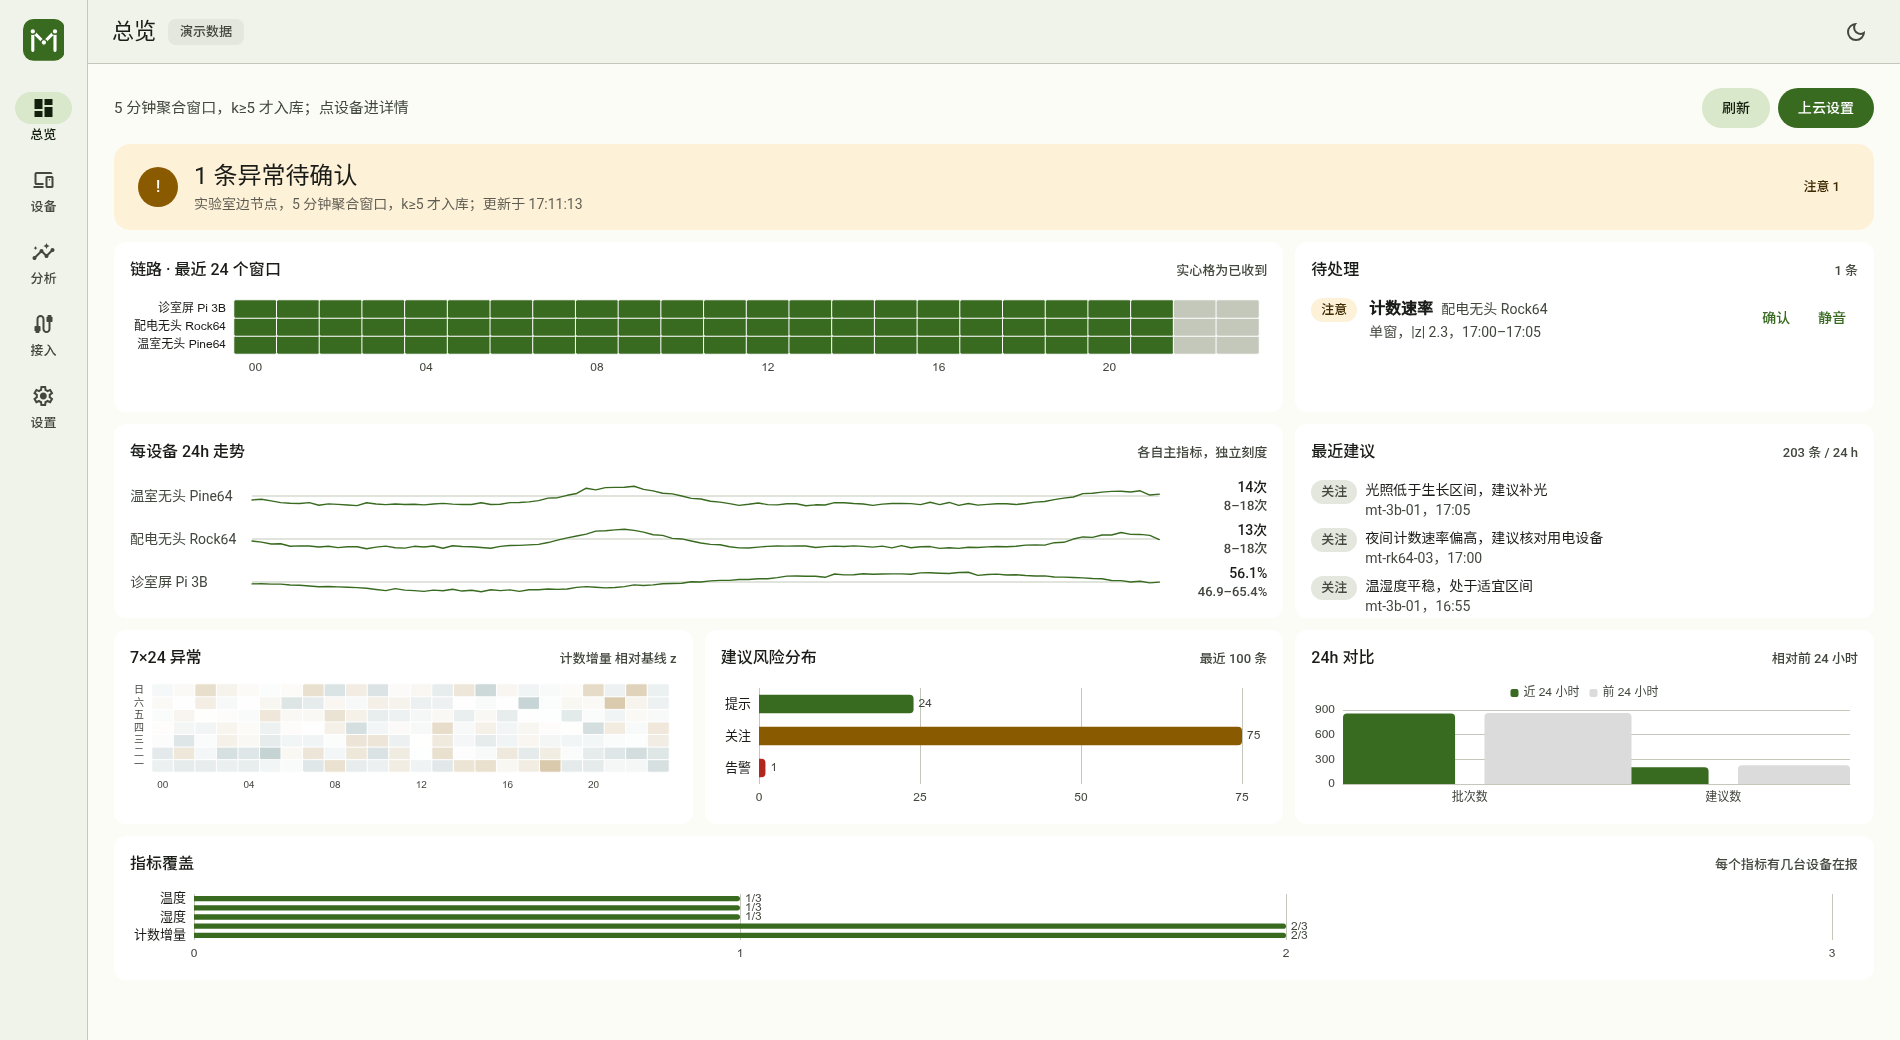
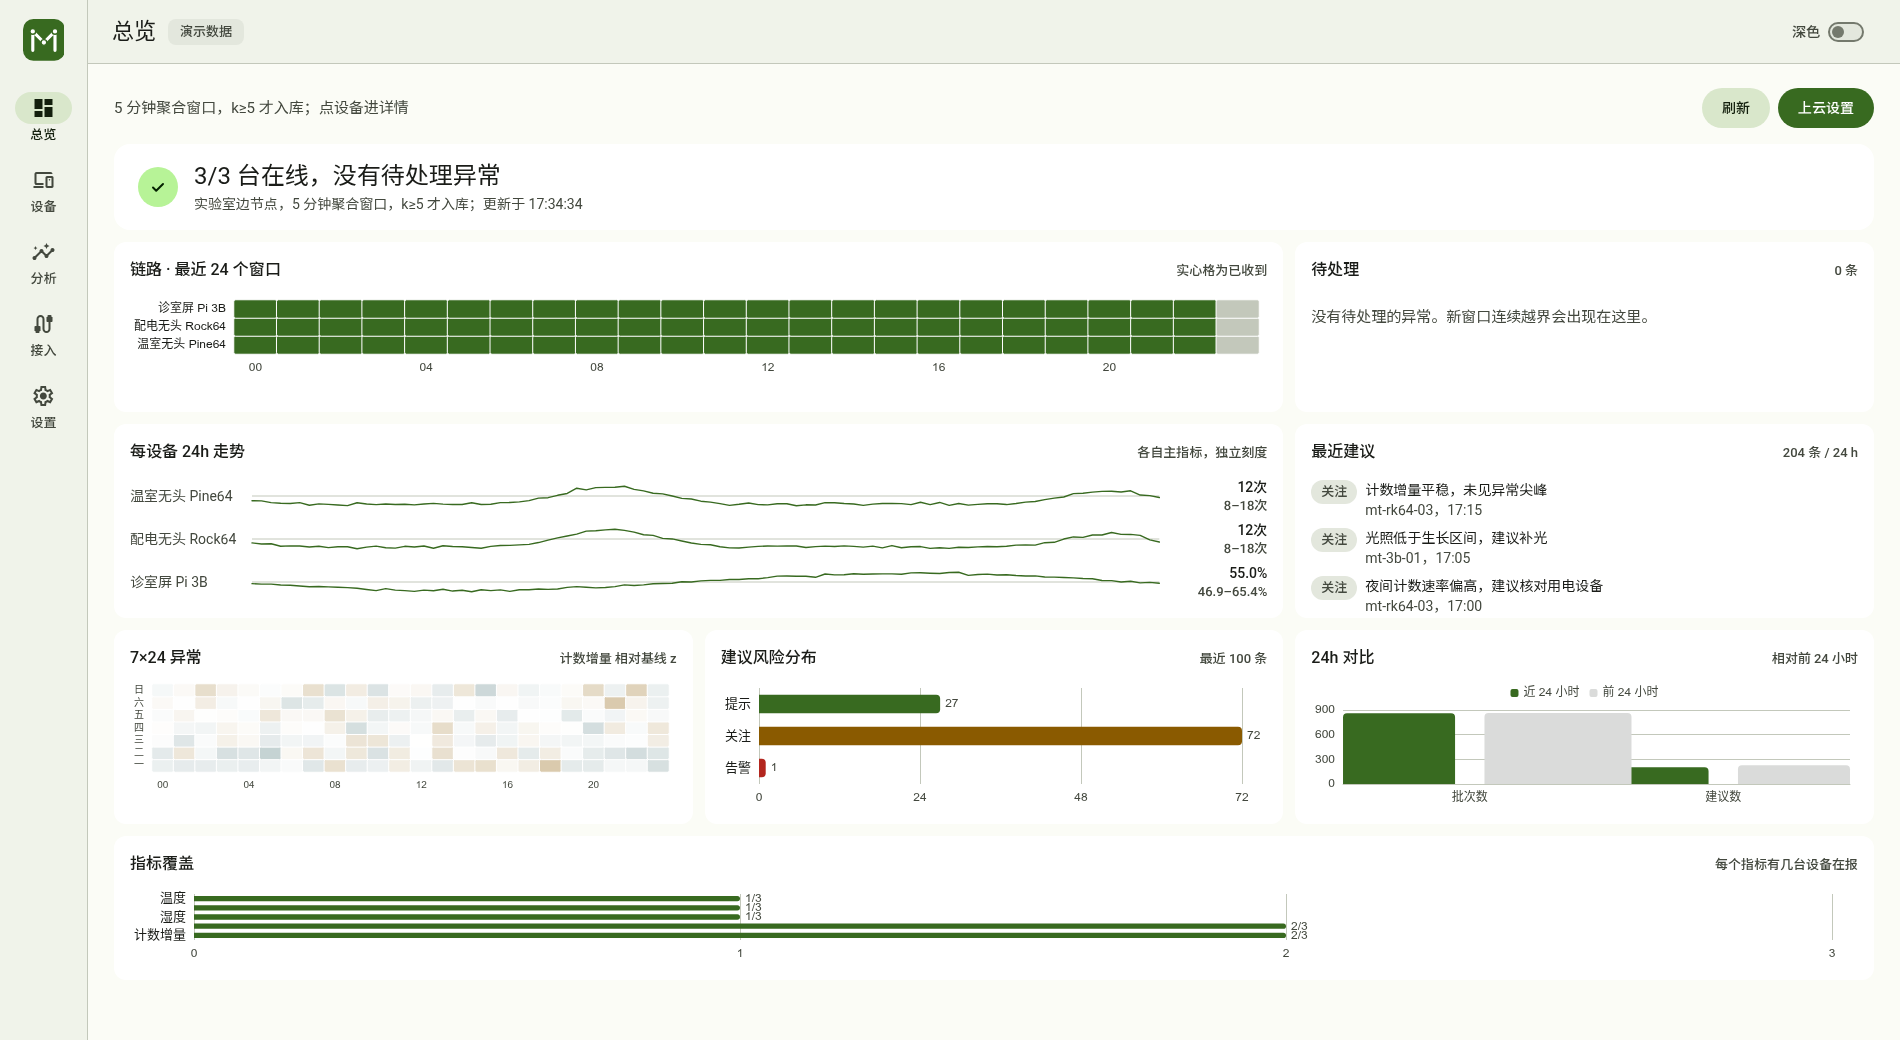
fix(web): 主题切换改成带标签的开关，别再用孤零零的太阳图标
顶栏只放一个 sun/moon 图标，看不出是"当前模式"还是"点了去哪"——点了
发现方向不对就会觉得切换是坏的。改成 M3 开关：固定标签「深色」+ 轨道
状态，role=switch / aria-checked，on 一眼可见。图标按钮的类名留作
.theme-toggle，smoke 的断言不用改。

diff --git a/web/src/styles/m3.css b/web/src/styles/m3.css
@@ -811,6 +811,59 @@ h3 {
   z-index: 40;
 }
 
+
+/* ---------------------------------------------------------------- 深色开关 */
+
+.theme-switch {
+  display: inline-flex;
+  align-items: center;
+  gap: var(--space-2);
+  height: 40px;
+  padding: 0 var(--space-3);
+  border: 0;
+  border-radius: var(--md-shape-full);
+  background: transparent;
+  color: var(--md-on-surface-variant);
+  font: var(--md-label-large);
+  cursor: pointer;
+  transition: background-color var(--md-dur-short) var(--md-ease);
+}
+.theme-switch:hover {
+  background: color-mix(in srgb, var(--md-on-surface) 8%, transparent);
+}
+.theme-switch__track {
+  position: relative;
+  width: 36px;
+  height: 20px;
+  border-radius: var(--md-shape-full);
+  border: 2px solid var(--md-outline);
+  background: var(--md-surface-container-highest);
+  transition: background-color var(--md-dur-short) var(--md-ease),
+    border-color var(--md-dur-short) var(--md-ease);
+}
+.theme-switch__thumb {
+  position: absolute;
+  top: 2px;
+  left: 2px;
+  width: 12px;
+  height: 12px;
+  border-radius: 50%;
+  background: var(--md-outline);
+  transition: transform var(--md-dur-short) var(--md-ease),
+    background-color var(--md-dur-short) var(--md-ease);
+}
+.theme-switch[aria-checked='true'] .theme-switch__track {
+  background: var(--md-primary);
+  border-color: var(--md-primary);
+}
+.theme-switch[aria-checked='true'] .theme-switch__thumb {
+  transform: translateX(16px);
+  background: var(--md-on-primary);
+}
+.theme-switch[aria-checked='true'] {
+  color: var(--md-on-surface);
+}
+
 /* ---------------------------------------------------------------- 工具 */
 
 .md-muted {

diff --git a/web/src/App.vue b/web/src/App.vue
@@ -54,12 +54,17 @@ onMounted(async () => {
         <div class="appbar-actions">
           <slot name="appbar"></slot>
           <button
-            class="md-btn md-btn--icon theme-toggle"
-            :aria-label="theme === 'dark' ? '切到亮色' : '切到暗色'"
-            :title="theme === 'dark' ? '切到亮色' : '切到暗色'"
+            class="theme-switch theme-toggle"
+            role="switch"
+            :aria-checked="theme === 'dark'"
+            aria-label="深色模式"
+            :title="theme === 'dark' ? '切换为亮色' : '切换为深色'"
             @click="toggleTheme"
           >
-            <Icon :name="theme === 'dark' ? 'light_mode' : 'dark_mode'" />
+            <span class="theme-switch__label">深色</span>
+            <span class="theme-switch__track" aria-hidden="true">
+              <span class="theme-switch__thumb"></span>
+            </span>
           </button>
         </div>
       </header>
